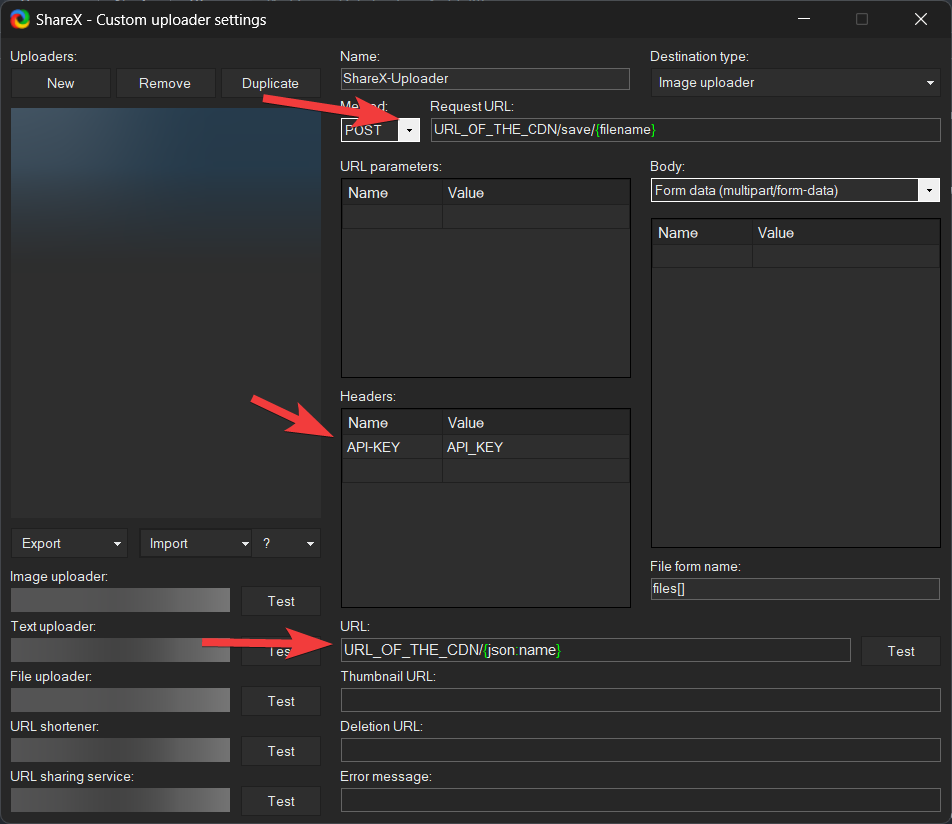
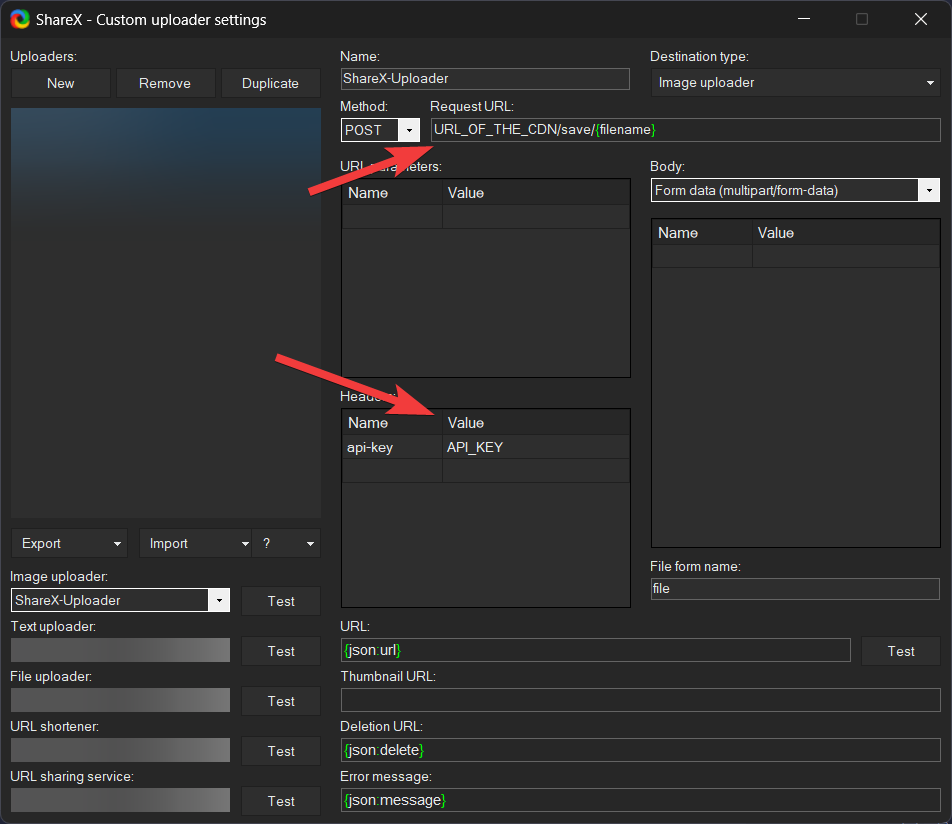
Readme update

diff --git a/README.md b/README.md
@@ -70,7 +70,7 @@ To setup your new ShareX API and make it work with ShareX you will need to do th
 
 3. Go back to ShareX and click `Import` then select `From clipboard` and then click `OK`.
    ![Importing Default Config](.github/readme/assets/ShareX_Setup_Importing_Config.png)
-4. Change the `Request URL`, `URL` and the `API-KEY` to the correct values that are set in your `config.json` file.
+4. Change the `Request URL` and the `API-KEY` to the correct values that are set in your `config.json` file.
    ![Changing Default Config](.github/readme/assets/ShareX_Setup_Changing_Config.png)
 5. Under `Image Uploader` in the bottom right make sure its set to `ShareX-Uploader` and then click `Test` to make sure it works.
    ![Testing Image Uploading](.github/readme/assets/ShareX_Setup_Testing.png)
